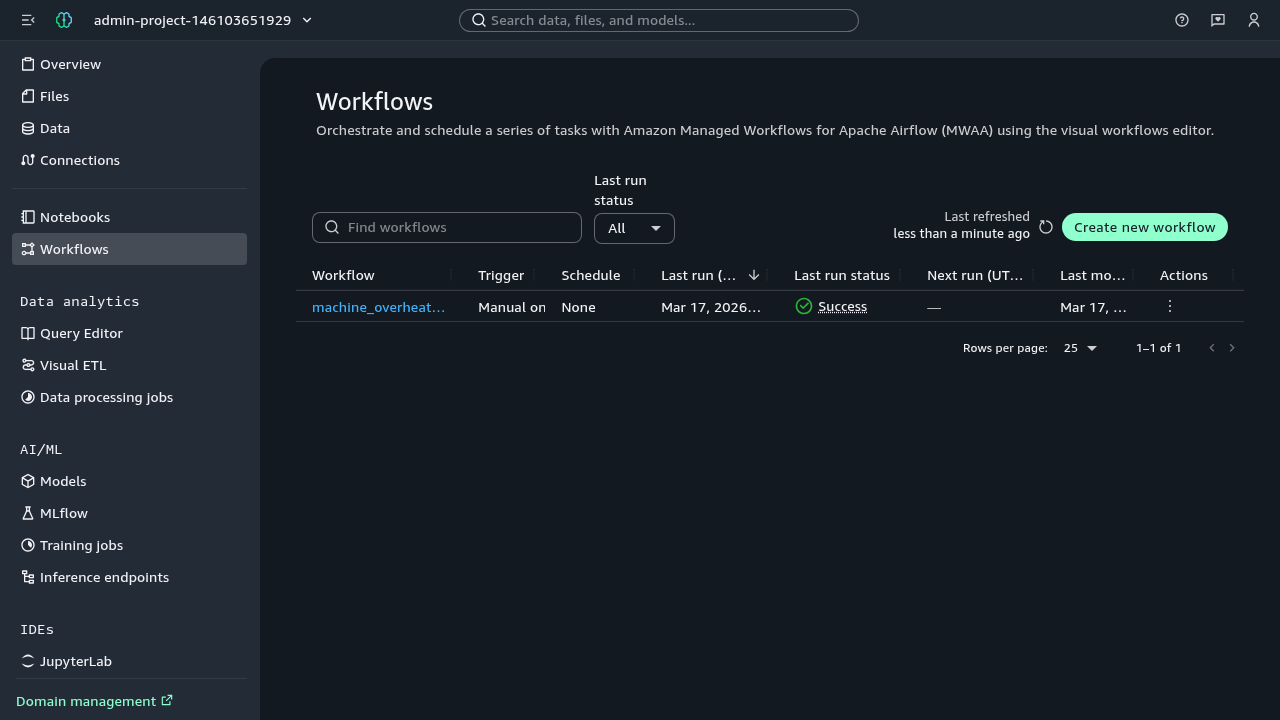
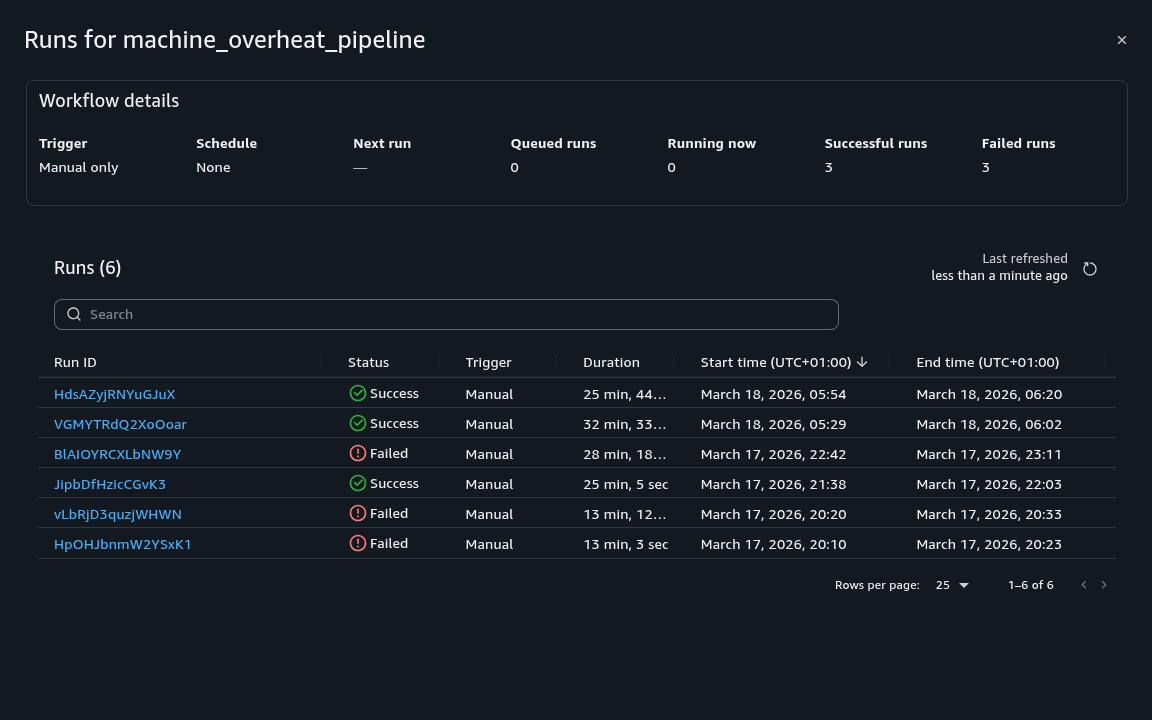
docs: refresh workflow screenshots for 5-task pipeline
Updated all 4 workflow screenshots to reflect the current 5-task
pipeline (clean_data, feature_engineering, train_model, validate_model,
deploy_endpoint). Updated README alt text and duration estimates.

diff --git a/README.md b/README.md
@@ -112,7 +112,7 @@ Go to **Workflows** in the left sidebar, click **Create workflow**, and define t
 
 The visual editor shows the DAG with each task as a `SageMakerNotebookOperator` node:
 
-![Workflow visual editor showing 3-task pipeline](assets/unified-studio-workflow-visual-editor.png)
+![Workflow visual editor showing 5-task pipeline](assets/unified-studio-workflow-visual-editor.png)
 
 Click the **code icon** (`<>`) in the toolbar (top-right, next to the settings gear) to switch to **Code view**. Replace the YAML content with the configuration below — update the `mlflow_tracking_uri` value with your own MLflow App ARN:
 
@@ -195,13 +195,13 @@ Click **Apply**, then **Save**.
 ### Step 5. Run and verify
 
 1. Click the green **"Run"** button (top-right of the visual editor, visible in the screenshot above).
-2. Click the **clock icon** in the toolbar (or navigate to the Runs panel) to monitor progress. The **Runs** tab shows all executions with status, duration, and timestamps (~12 min total for the full pipeline):
+2. Click the **clock icon** in the toolbar (or navigate to the Runs panel) to monitor progress. The **Runs** tab shows all executions with status, duration, and timestamps (~25 min total for the full 5-task pipeline):
 
 ![Workflow Runs tab showing execution history](assets/unified-studio-workflow-runs.png)
 
-3. Click on a successful **Run ID** to see per-task details. Each of the 3 tasks runs as a `SageMakerNotebookOperator` with ~3 min duration:
+3. Click on a successful **Run ID** to see per-task details. All 5 tasks run as `SageMakerNotebookOperator` nodes (~3 min each, except deploy_endpoint which takes ~9 min for endpoint provisioning):
 
-![Workflow run details showing 3 successful tasks](assets/unified-studio-workflow-run-details.png)
+![Workflow run details showing 5 successful tasks](assets/unified-studio-workflow-run-details.png)
 
 4. Go to **MLflow** in the left sidebar and click **"Open MLflow"** on the connected tracking server. The MLflow UI shows the `machine-overheat` experiment:
 
